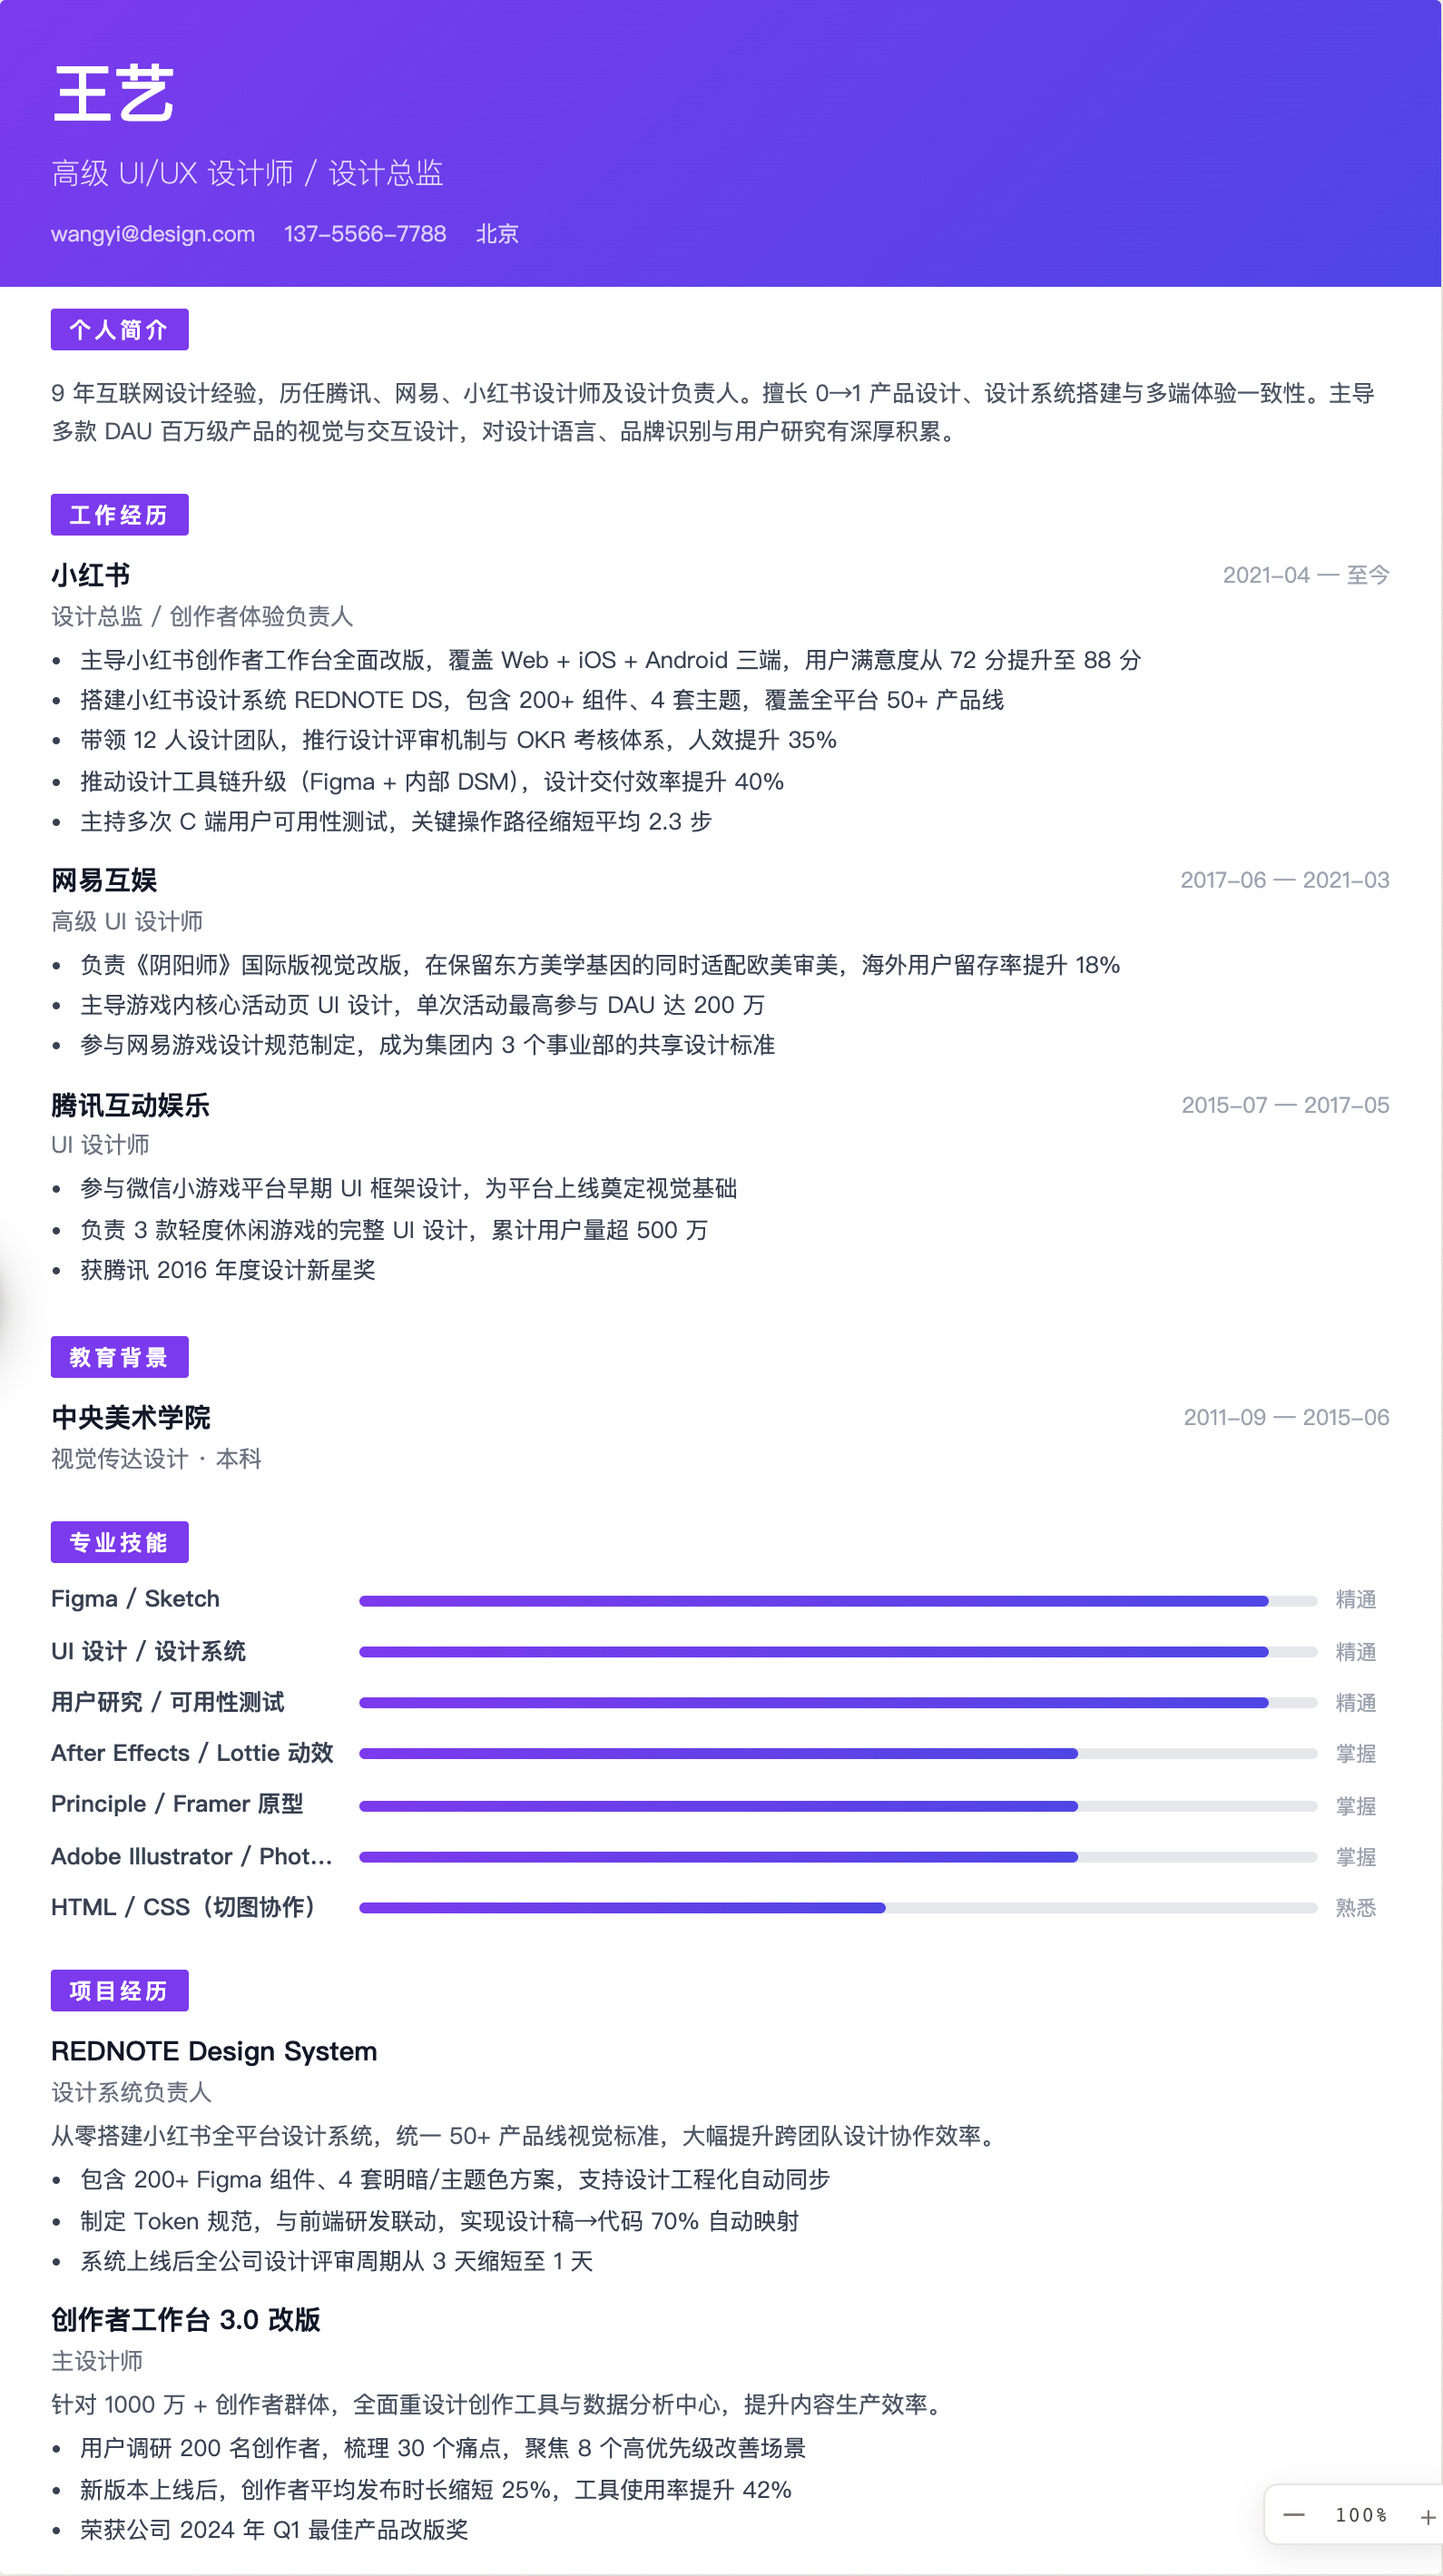
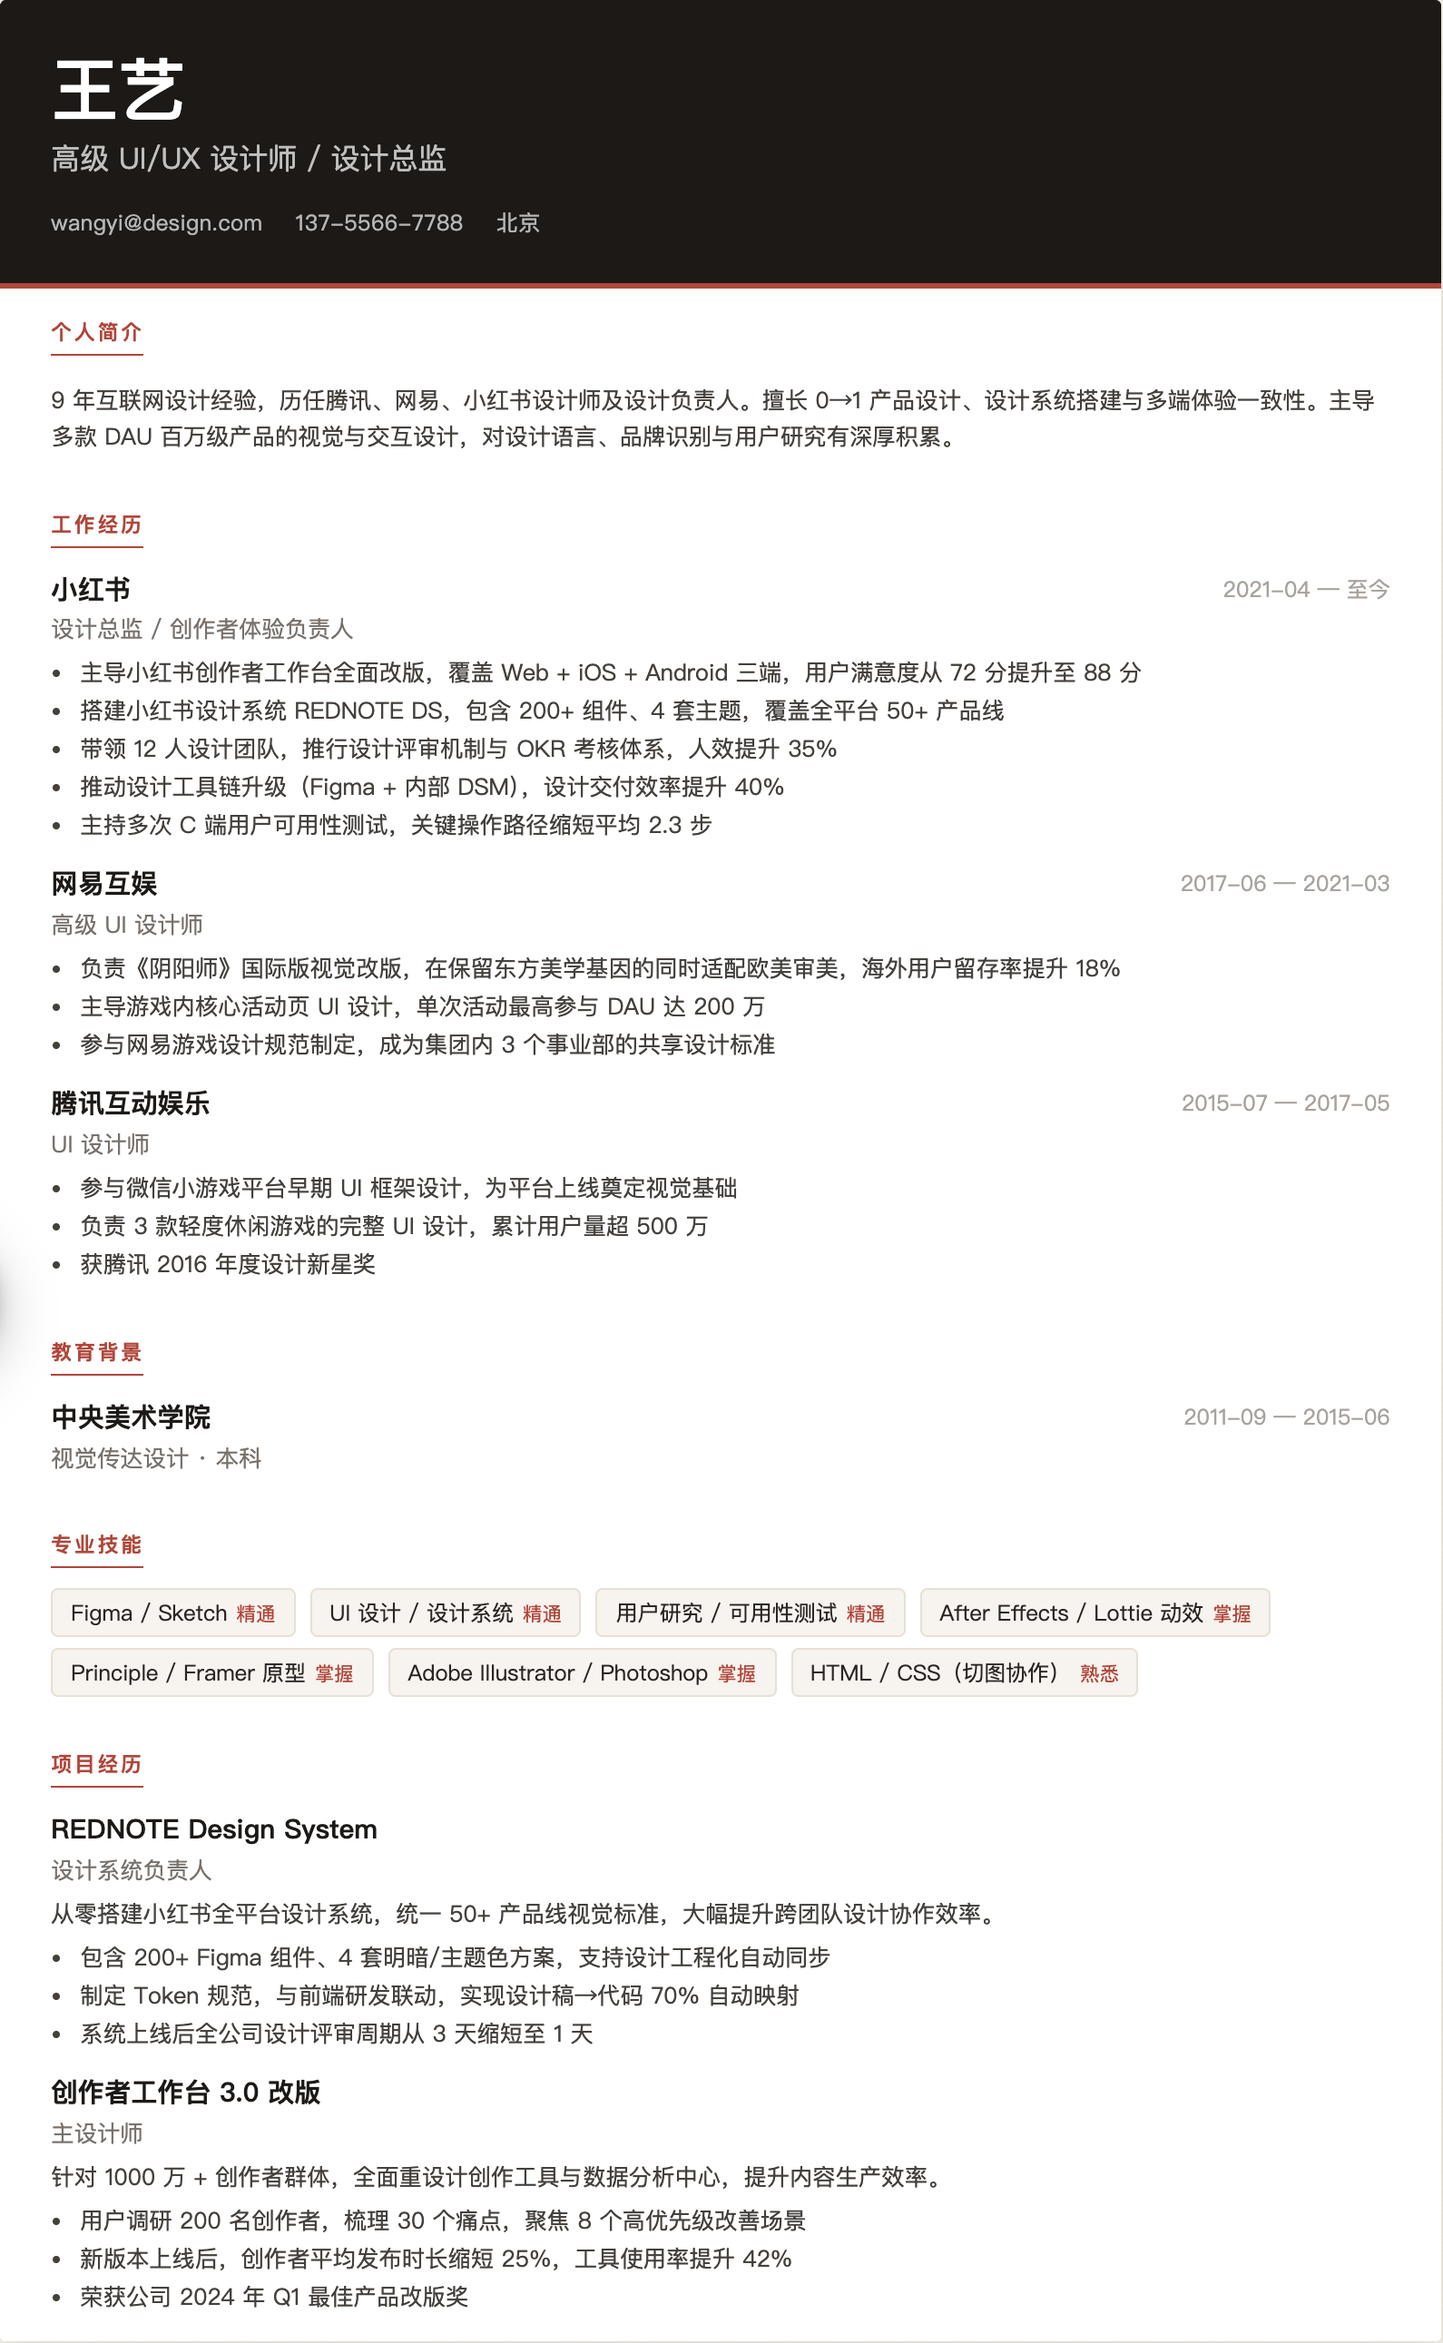
redesign(template): creative 改用技能标签替换进度条 + 去渐变
- 技能：进度条改为标签胶囊（flex-wrap），长技能名也不会与进度条/熟练度文字重合，
  彻底解决重合问题。
- 头部：紫色渐变 → 实色 ink + 砖红下边框（去 slop、回品牌色）；区块标题改砖红下划线。
- 冷灰(#6B7280 系)统一换成暖色 stone/ink；熟练度用砖红小字。
- 重新生成 creative 封面。

diff --git a/data/templates/creative.ts b/data/templates/creative.ts
@@ -69,15 +69,11 @@ const template: TemplateData = {
   {{#if skills.length}}
   <section class="cr-section">
     <h2 class="cr-section-title">专业技能</h2>
-    <div class="cr-skills-grid">
+    <div class="cr-skills">
       {{#each skills}}
-      <div class="cr-skill-row">
-        <span class="cr-skill-name" data-field="skills.{{@index}}.name">{{{name}}}</span>
-        <div class="cr-skill-bar">
-          <div class="cr-skill-fill cr-level-{{{level}}}"></div>
-        </div>
-        <span class="cr-skill-level" data-field="skills.{{@index}}.level">{{{level}}}</span>
-      </div>
+      <span class="cr-skill-tag" data-entry="skills" data-entry-index="{{@index}}">
+        <span data-field="skills.{{@index}}.name">{{{name}}}</span>{{#if level}} <span class="cr-skill-lv" data-field="skills.{{@index}}.level">{{{level}}}</span>{{/if}}
+      </span>
       {{/each}}
     </div>
   </section>
@@ -103,37 +99,32 @@ const template: TemplateData = {
 `,
     css: `* { word-wrap: break-word; overflow-wrap: break-word; }
 * { margin: 0; padding: 0; box-sizing: border-box; }
-.resume.creative { max-width: 210mm; min-height: 297mm; margin: 0 auto; font-family: "Source Han Sans SC", "Noto Sans SC", "PingFang SC", "Microsoft YaHei", sans-serif; font-size: 10pt; line-height: 1.6; color: #1F2937; background: #fff; }
-.cr-header { padding: 24px 28px 20px; background: linear-gradient(135deg, #7C3AED 0%, #4F46E5 100%); color: #fff; }
-.cr-header h1 { font-size: 26pt; font-weight: 900; letter-spacing: -0.5px; color: #fff; }
-.cr-tagline { font-size: 12pt; color: rgba(255,255,255,0.8); margin-top: 4px; font-weight: 300; }
-.cr-contacts { margin-top: 10px; display: flex; flex-wrap: wrap; gap: 4px 16px; }
-.cr-contact { font-size: 9pt; color: rgba(255,255,255,0.75); }
-.cr-section { padding: 12px 28px; }
-.cr-section-title { display: inline-block; font-size: 9pt; font-weight: 700; text-transform: uppercase; letter-spacing: 2px; background: #7C3AED; color: #fff; padding: 2px 10px; border-radius: 2px; margin-bottom: 10px; }
-.cr-entry { margin-bottom: 10px; }
+.resume.creative { max-width: 210mm; min-height: 297mm; margin: 0 auto; font-family: "Source Han Sans SC", "Noto Sans SC", "PingFang SC", "Microsoft YaHei", sans-serif; font-size: 10pt; line-height: 1.6; color: #292524; background: #fff; }
+/* 头部：实色 ink 块 + 一道砖红强调（取代原紫色渐变，去 slop、回到品牌色） */
+.cr-header { padding: 30px 28px 24px; background: #1C1917; color: #fff; border-bottom: 3px solid #B0463A; }
+.cr-header h1 { font-size: 28pt; font-weight: 800; letter-spacing: -0.5px; line-height: 1.05; color: #fff; }
+.cr-tagline { font-size: 12pt; color: rgba(255,255,255,0.72); margin-top: 6px; font-weight: 400; }
+.cr-contacts { margin-top: 12px; display: flex; flex-wrap: wrap; gap: 4px 18px; }
+.cr-contact { font-size: 9pt; color: rgba(255,255,255,0.68); letter-spacing: 0.02em; }
+.cr-section { padding: 13px 28px; }
+/* 区块标题：砖红下划线小标签 */
+.cr-section-title { display: inline-block; font-size: 8.5pt; font-weight: 700; text-transform: uppercase; letter-spacing: 1.5px; color: #B0463A; border-bottom: 1.5px solid #B0463A; padding-bottom: 3px; margin-bottom: 11px; }
+.cr-entry { margin-bottom: 11px; }
 .cr-entry:last-child { margin-bottom: 0; }
-.cr-entry-head { display: flex; justify-content: space-between; align-items: flex-start; }
+.cr-entry-head { display: flex; justify-content: space-between; align-items: flex-start; gap: 12px; }
 .cr-meta { display: flex; flex-direction: column; }
-.cr-entity { font-size: 11pt; font-weight: 700; color: #111827; }
-.cr-role { font-size: 9.5pt; color: #6B7280; margin-top: 1px; }
-.cr-date { font-size: 9pt; color: #9CA3AF; white-space: nowrap; margin-left: 12px; padding-top: 2px; }
-.cr-body { font-size: 9.5pt; color: #4B5563; margin-top: 4px; }
+.cr-entity { font-size: 11pt; font-weight: 700; color: #1C1917; }
+.cr-role { font-size: 9.5pt; color: #78716C; margin-top: 1px; }
+.cr-date { font-size: 9pt; color: #A8A29E; white-space: nowrap; flex-shrink: 0; padding-top: 2px; }
+.cr-body { font-size: 9.5pt; color: #44403C; margin-top: 4px; }
 .cr-highlights { padding-left: 16px; margin-top: 4px; }
-.cr-highlights li { font-size: 9.5pt; color: #374151; margin-bottom: 2px; }
-.cr-skills-grid { display: flex; flex-direction: column; gap: 8px; }
-.cr-skill-row { display: flex; align-items: center; gap: 10px; }
-.cr-skill-name { width: 160px; font-size: 9.5pt; font-weight: 600; color: #374151; flex-shrink: 0; overflow: hidden; text-overflow: ellipsis; white-space: nowrap; }
-.cr-skill-bar { flex: 1; height: 6px; background: #E5E7EB; border-radius: 3px; overflow: hidden; }
-.cr-skill-fill { height: 100%; border-radius: 3px; background: linear-gradient(90deg, #7C3AED, #4F46E5); }
-.cr-level-精通 .cr-skill-fill, .cr-skill-fill.cr-level-精通 { width: 95%; }
-.cr-level-掌握 .cr-skill-fill, .cr-skill-fill.cr-level-掌握 { width: 75%; }
-.cr-level-熟悉 .cr-skill-fill, .cr-skill-fill.cr-level-熟悉 { width: 55%; }
-.cr-level-了解 .cr-skill-fill, .cr-skill-fill.cr-level-了解 { width: 35%; }
-.cr-skill-fill { width: 60%; }
-.cr-skill-level { width: 30px; font-size: 8.5pt; color: #9CA3AF; flex-shrink: 0; }
+.cr-highlights li { font-size: 9.5pt; color: #44403C; margin-bottom: 2px; line-height: 1.5; }
+/* 技能：标签胶囊，无进度条 → 长名也不会与任何元素重合 */
+.cr-skills { display: flex; flex-wrap: wrap; gap: 6px 8px; }
+.cr-skill-tag { display: inline-flex; align-items: baseline; gap: 5px; font-size: 9pt; color: #292524; background: #F7F3EE; border: 1px solid #E7E0D6; border-radius: 4px; padding: 3px 10px; }
+.cr-skill-lv { font-size: 8pt; color: #B0463A; }
 li p, li div { margin: 0; padding: 0; display: inline; }
-@media print { .resume.creative { margin: 0; } }
+@media print { .resume.creative { margin: 0; } @page { size: A4; margin: 0; } }
 
 
 /* skill-no-wrap */
